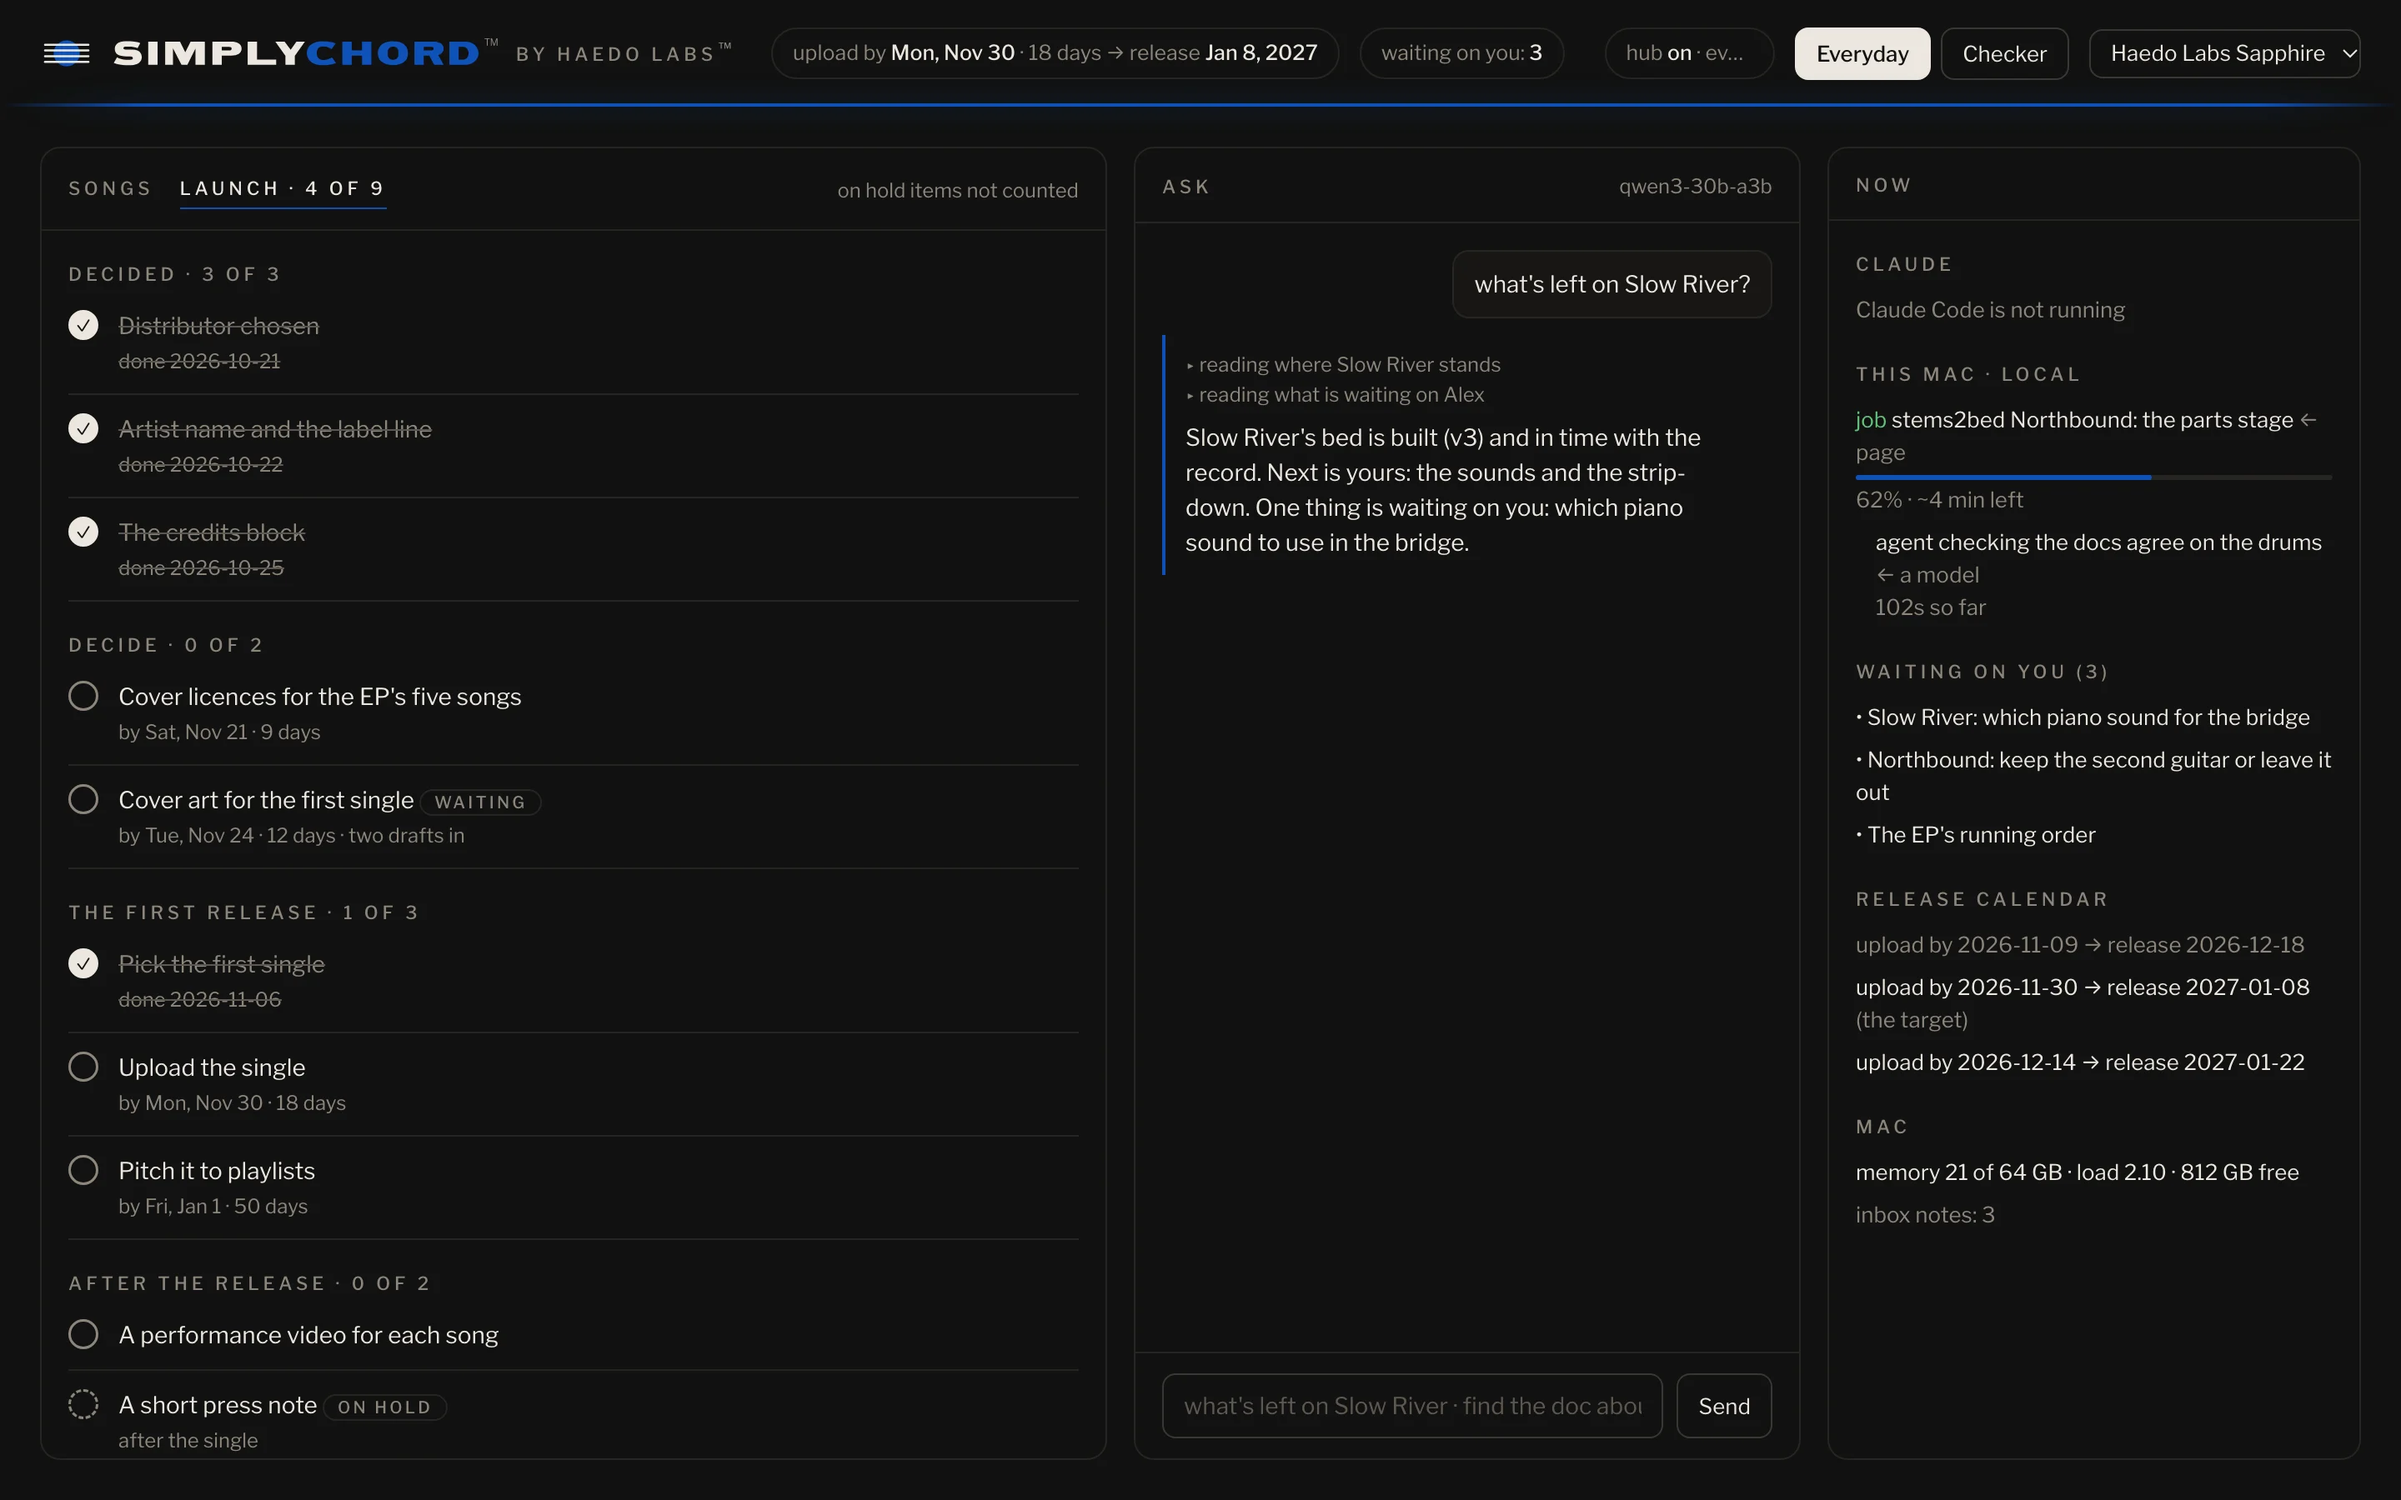
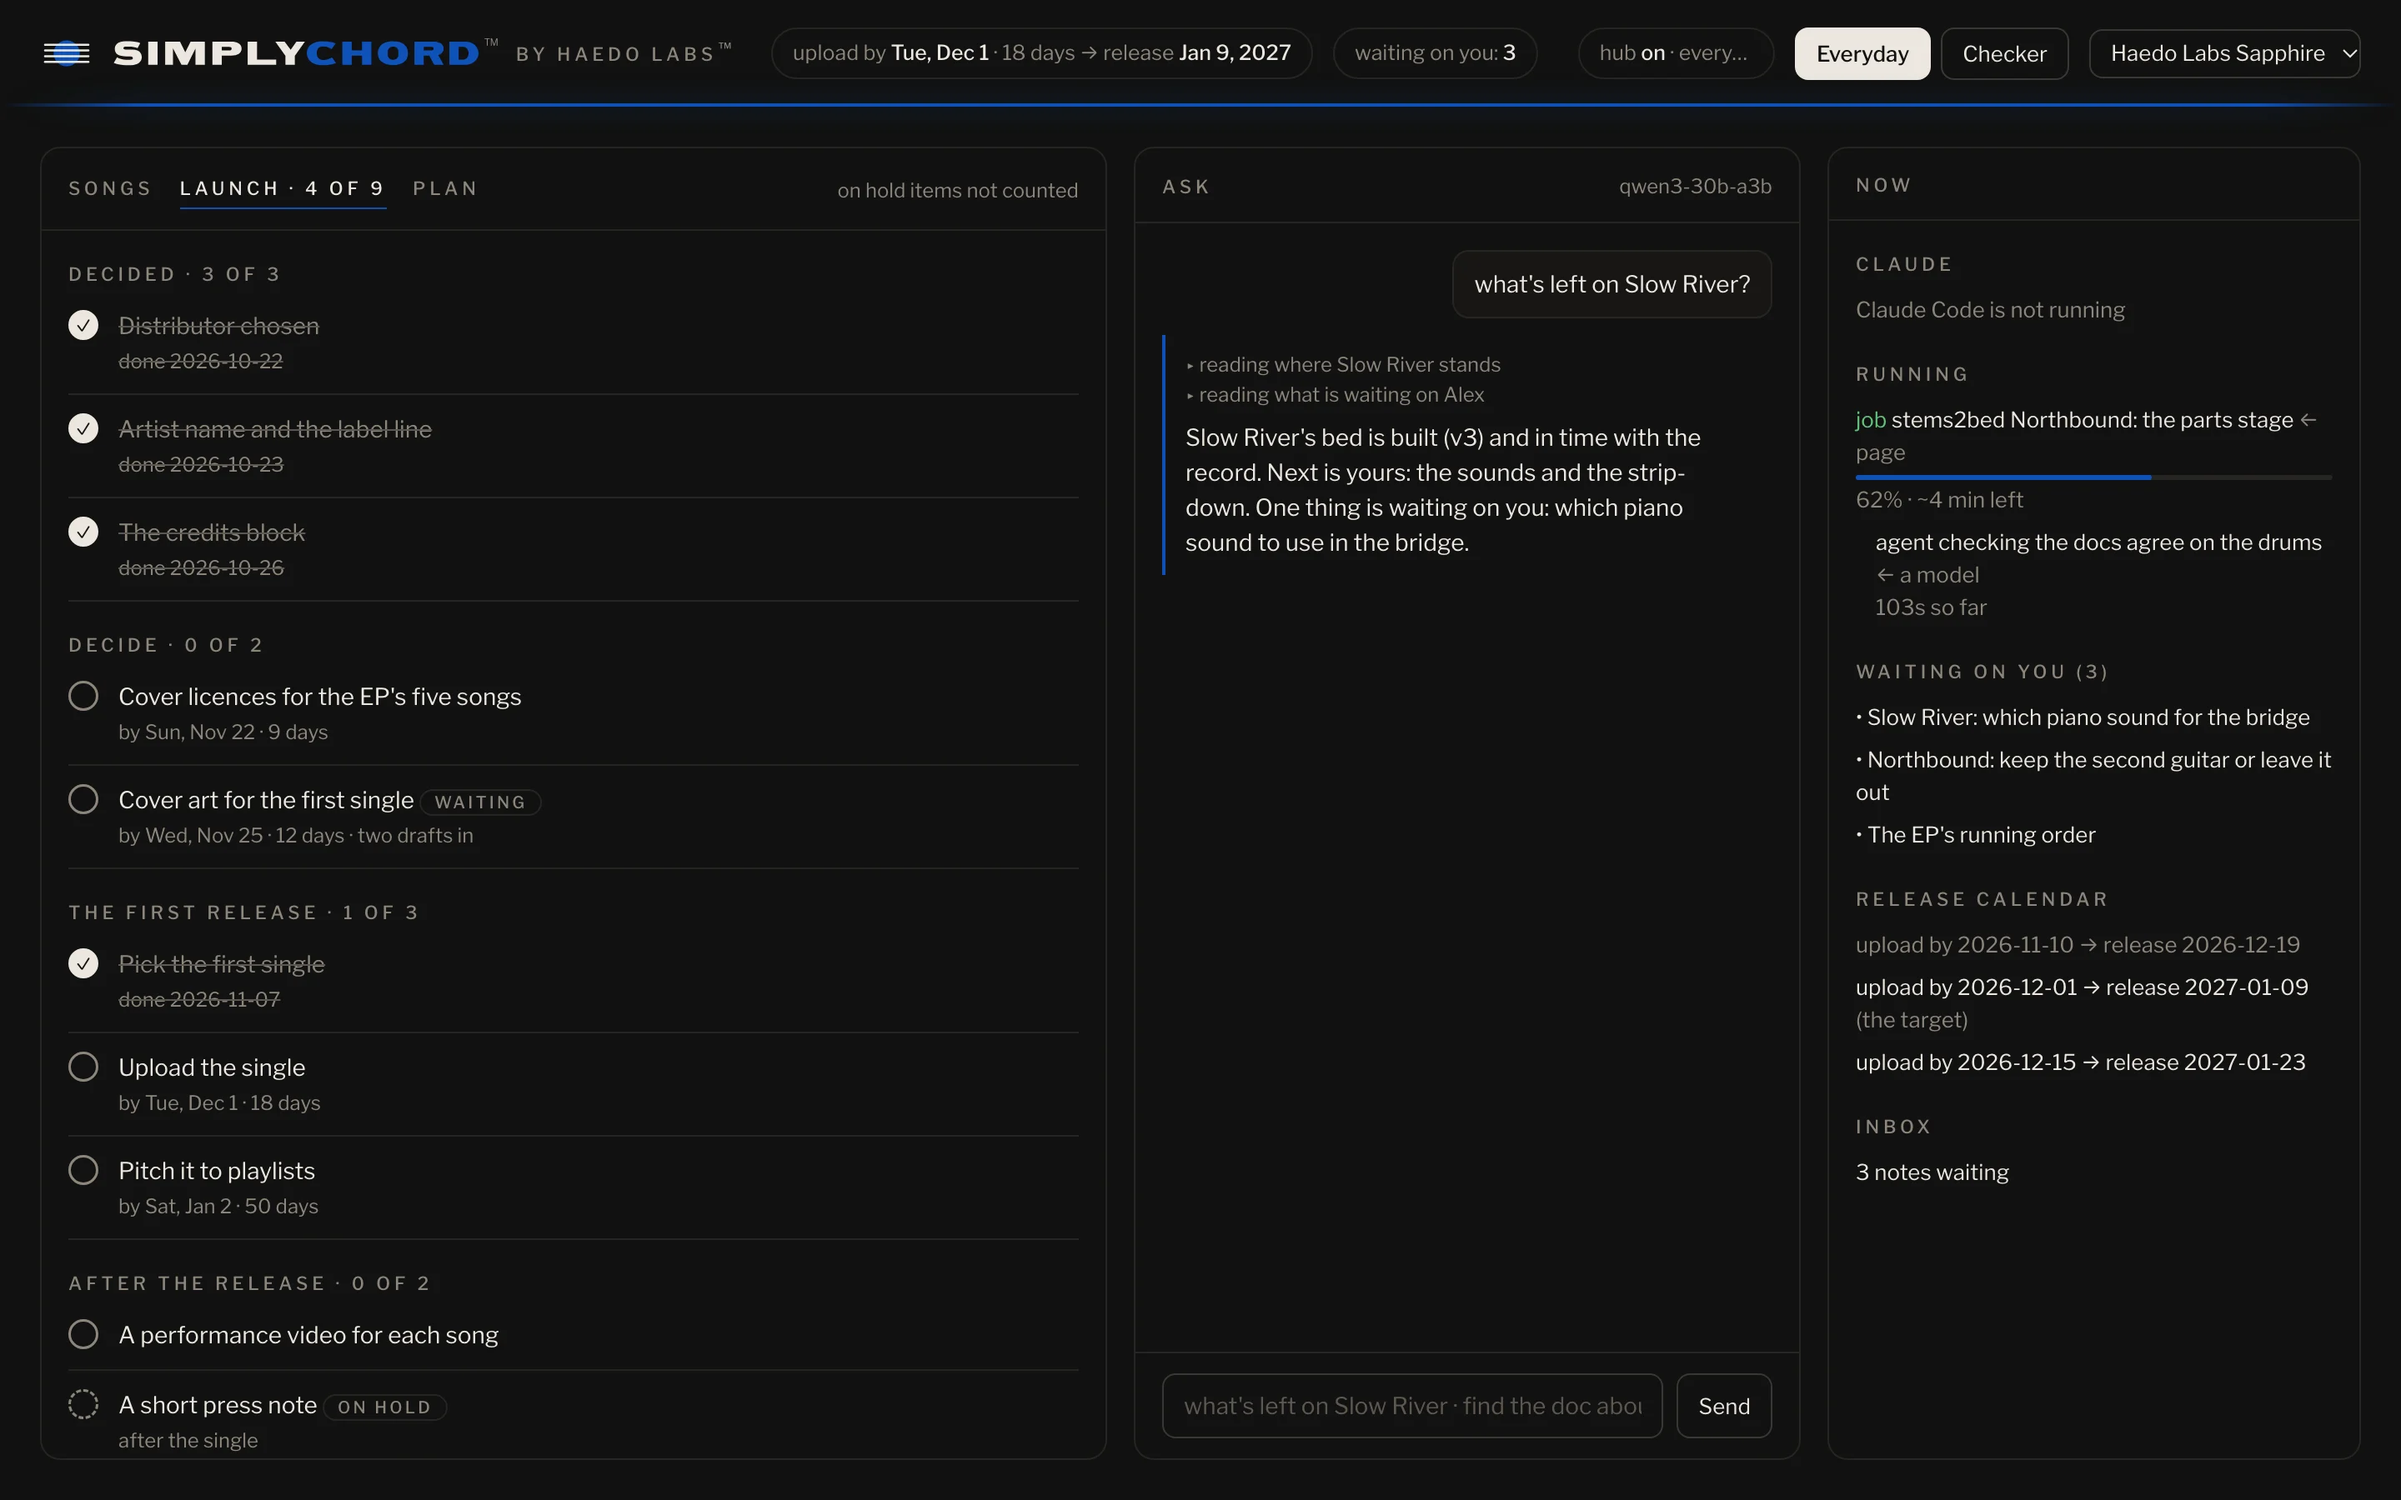
Four pictures of the page, two by two

diff --git a/README.md b/README.md
@@ -7,7 +7,10 @@ By [Haedo Labs](https://haedolabs.com)™.
 In the works.
 
 <p>
-<a href="shots/songs.webp"><img src="shots/songs.webp" width="32%" alt="The page: every song's progress"></a>
-<a href="shots/launch.webp"><img src="shots/launch.webp" width="32%" alt="The page: the launch checklist"></a>
-<a href="shots/result.webp"><img src="shots/result.webp" width="32%" alt="The page: a check's result"></a>
+<a href="shots/songs.webp"><img src="shots/songs.webp" width="49%" alt="The page: every song's progress, a chat, and what is running"></a>
+<a href="shots/yes.webp"><img src="shots/yes.webp" width="49%" alt="The page: a step that needs the owner's yes, and its Yes button"></a>
+</p>
+<p>
+<a href="shots/launch.webp"><img src="shots/launch.webp" width="49%" alt="The page: the launch checklist"></a>
+<a href="shots/result.webp"><img src="shots/result.webp" width="49%" alt="The page: a check's result"></a>
 </p>
